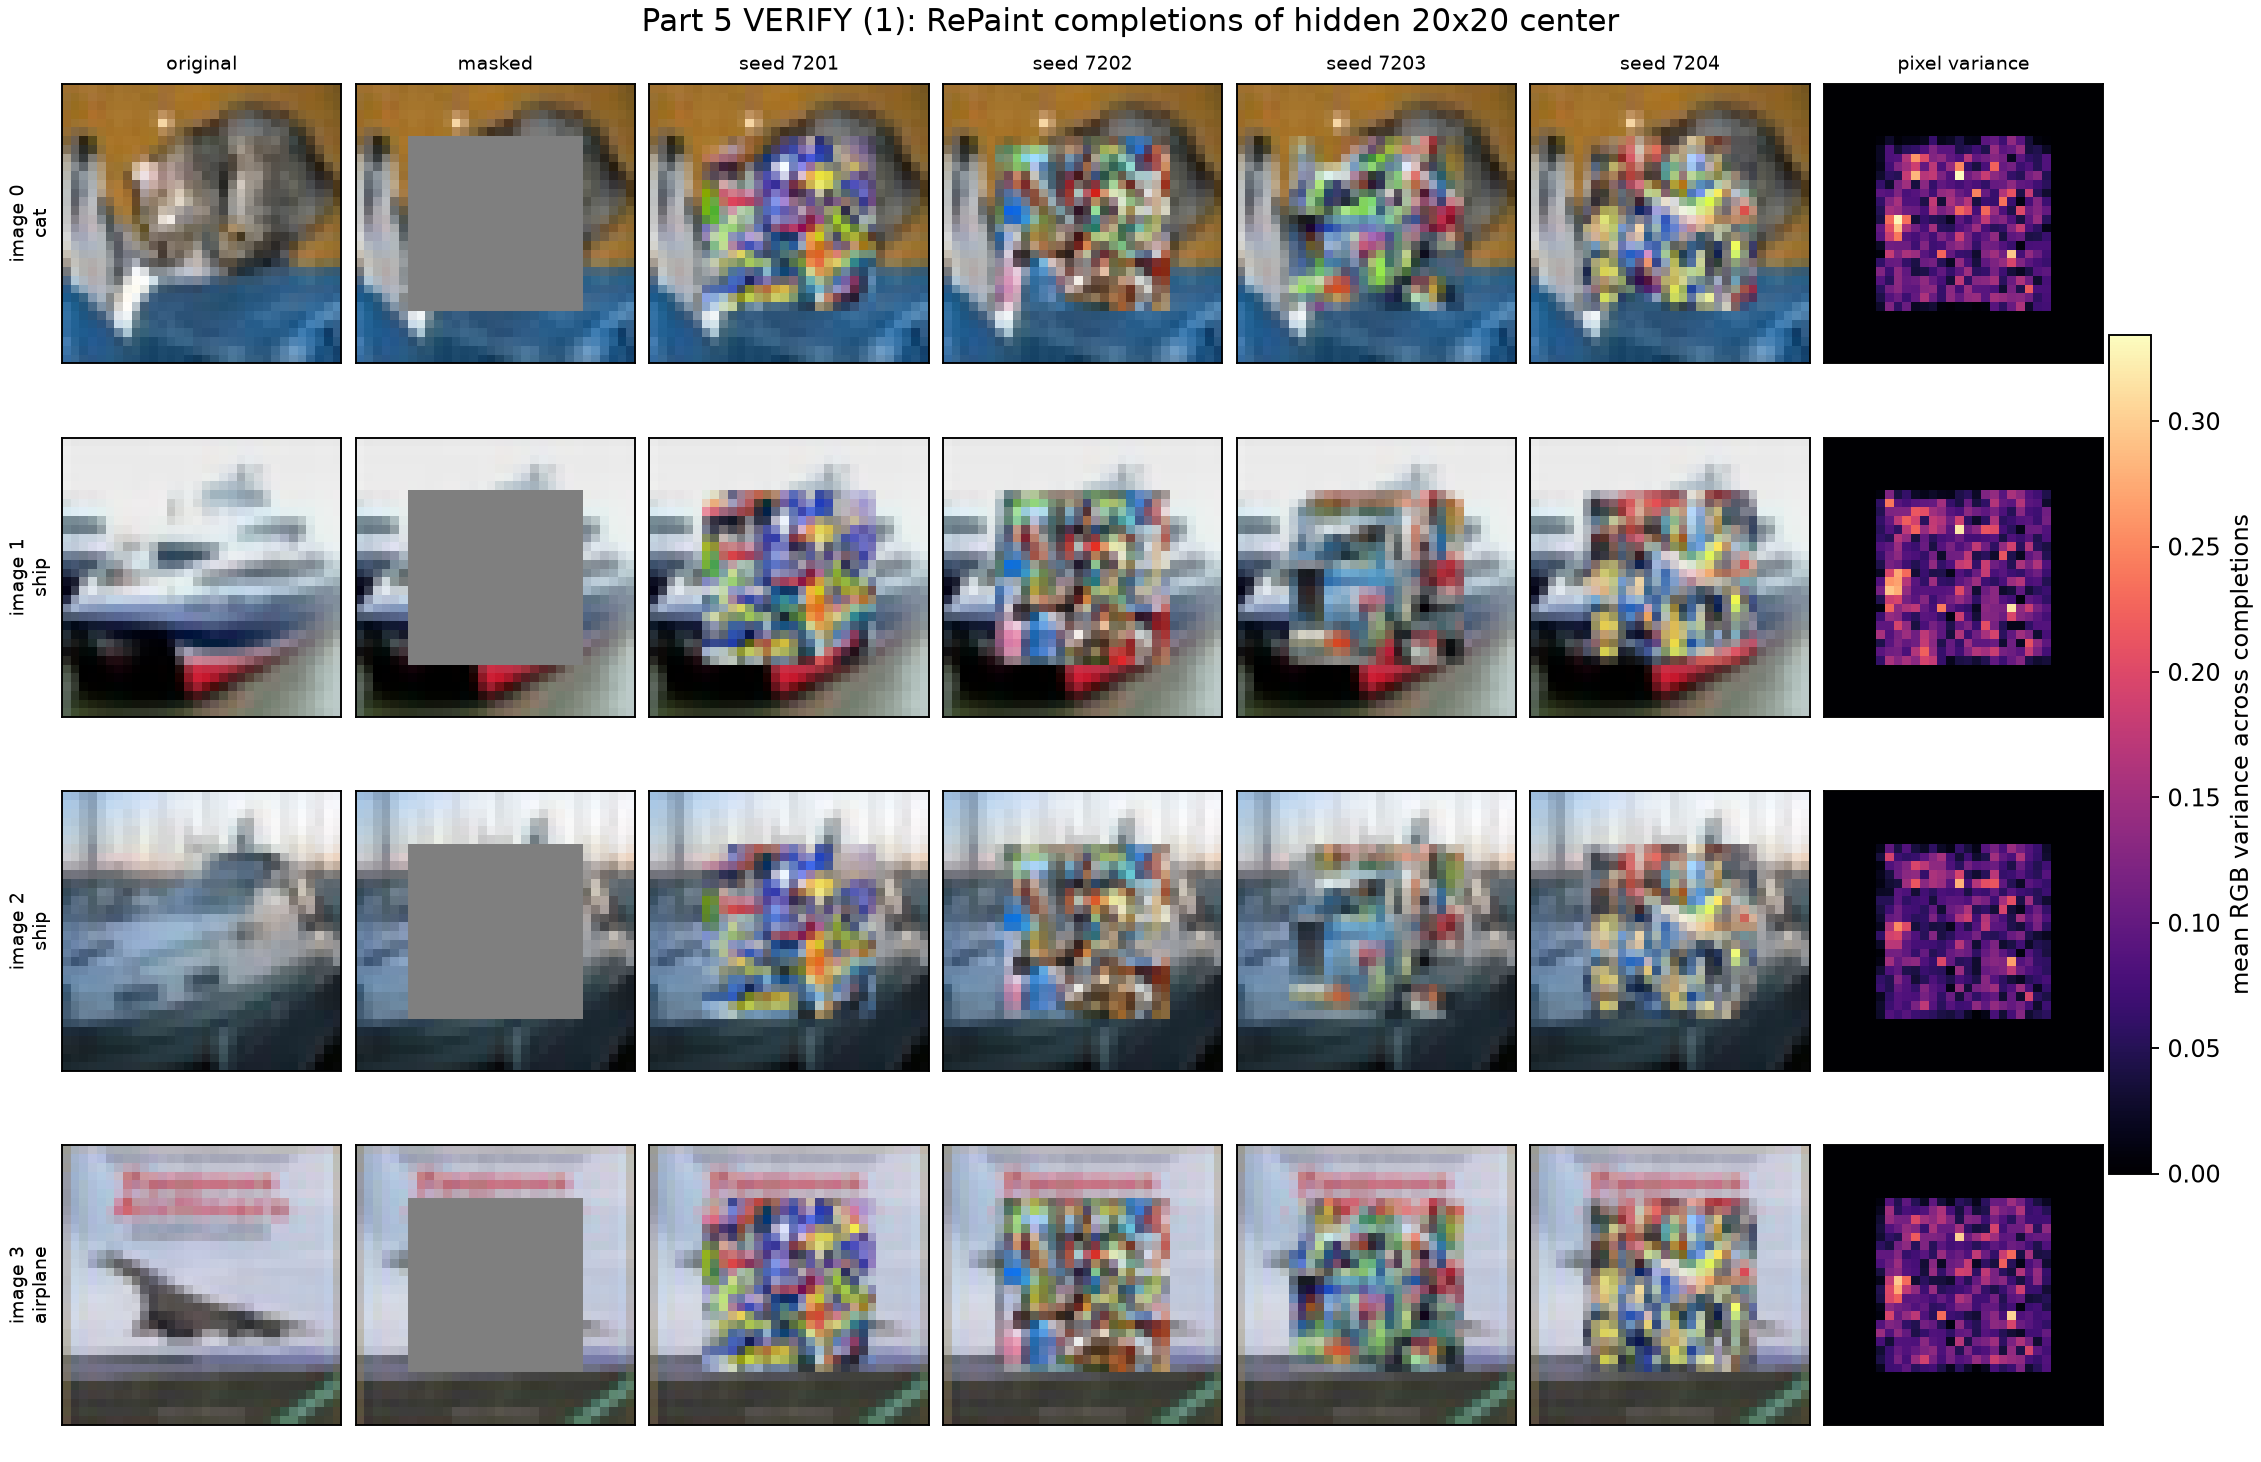
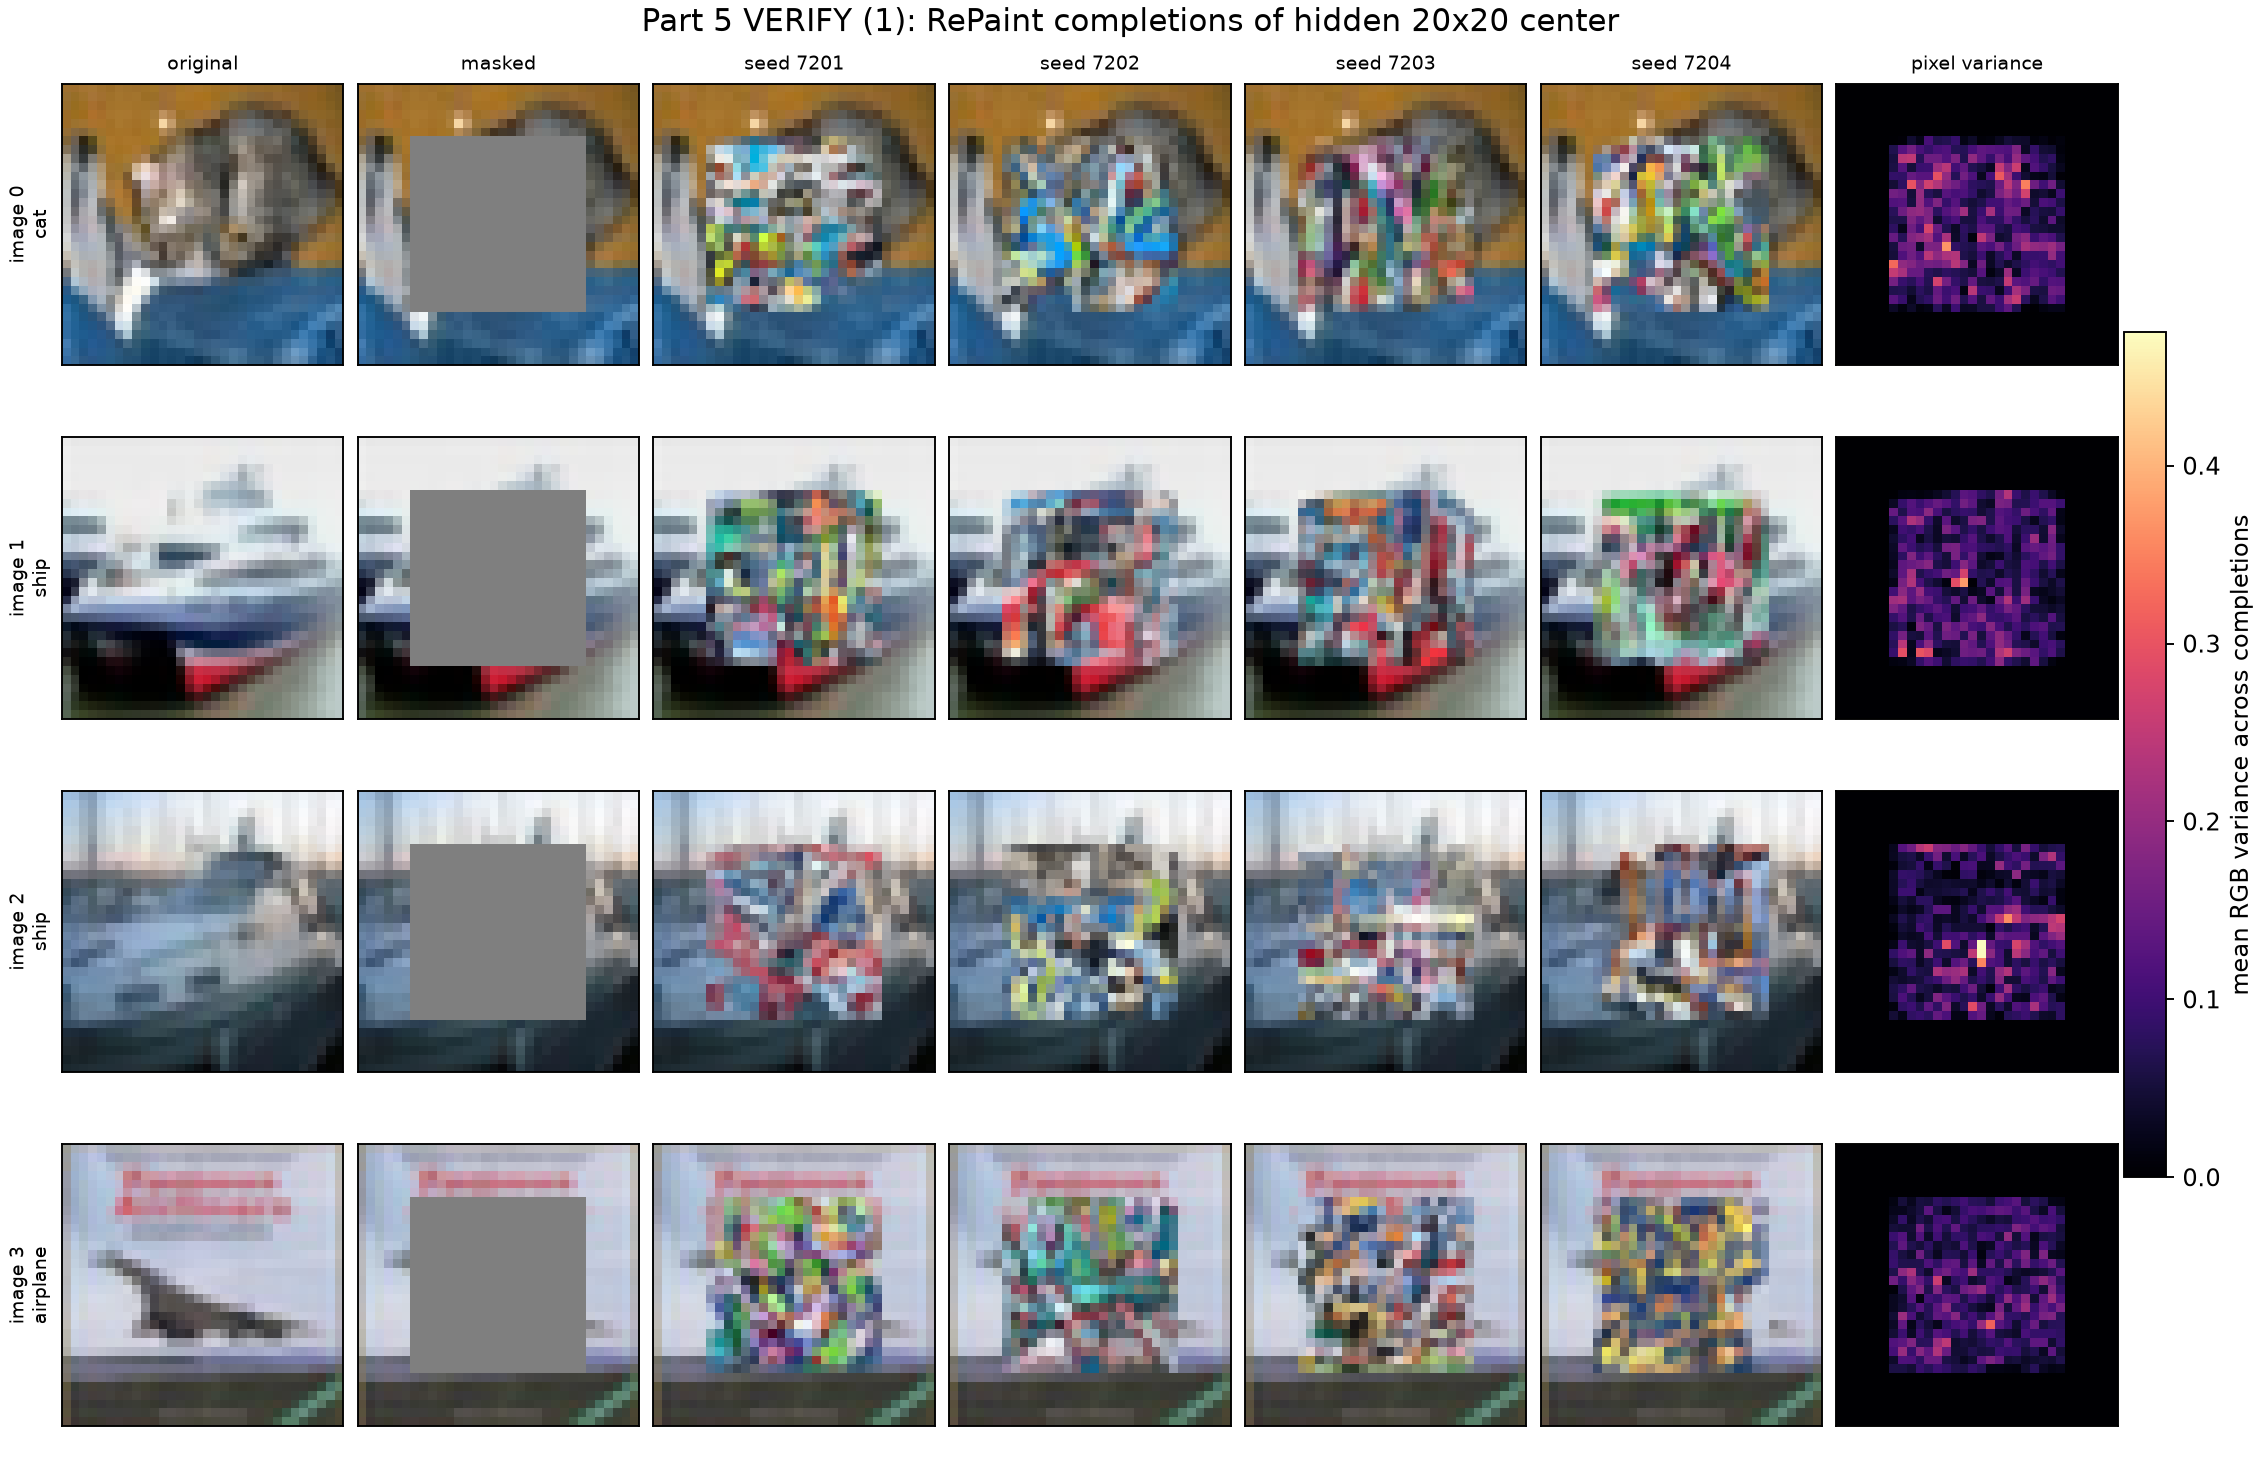
week7: fix RePaint image conditioning and finish Week 7

diff --git a/week7/repaint.py b/week7/repaint.py
@@ -84,6 +84,10 @@ def repaint_batch(
     betas = linear_beta_schedule(1000)
     alpha_bars = alpha_bars_from_betas(betas)
     seed_keys = jnp.stack([jax.random.PRNGKey(int(seed)) for seed in seeds])
+    # The same completion seed is used for every image, but the image index is
+    # mixed into the key so each visible context gets independent noise.
+    image_indices = jnp.arange(batch, dtype=jnp.int32)
+    seed_keys = jax.vmap(jax.random.fold_in)(seed_keys, image_indices)
     split_keys = jax.vmap(
         lambda key: jax.random.split(key)
     )(seed_keys)
@@ -93,6 +97,13 @@ def repaint_batch(
         lambda key: jax.random.normal(key, (32, 32, 3), dtype=DTYPE)
     )(key_initial)
     noise = _noise_factory(key_noise, (32, 32, 3))
+    # Seed the known border with its t=1000 forward observation before the
+    # first network evaluation.
+    initial_known_noise = noise(0)
+    x = mask * (
+        jnp.sqrt(alpha_bars[1000]) * observations
+        + jnp.sqrt(1.0 - alpha_bars[1000]) * initial_known_noise
+    ) + (1.0 - mask) * x
     model = jax.jit(lambda sample, t: unet_apply(params, sample, t, config))
 
     evaluations = 0
@@ -199,6 +210,18 @@ def repaint_metrics(
         ),
         axis=(2, 3, 4, 5),
     )
+    cross_image_differences = []
+    for seed in range(completions.shape[1]):
+        for first in range(completions.shape[0]):
+            for second in range(first + 1, completions.shape[0]):
+                cross_image_differences.append(
+                    np.mean(
+                        np.abs(
+                            completions[first, seed][hidden_bool]
+                            - completions[second, seed][hidden_bool]
+                        )
+                    )
+                )
 
     return {
         "hidden_mse": hidden_mse.tolist(),
@@ -215,6 +238,9 @@ def repaint_metrics(
         "per_image_max_hidden_std": max_hidden_std.tolist(),
         "per_image_min_hidden_std": min_hidden_std.tolist(),
         "max_pairwise_hidden_difference": float(pairwise_difference.max()),
+        "cross_image_hidden_mean_abs_difference": float(
+            np.mean(cross_image_differences)
+        ),
         "variance": variance,
         "completions_in_range": bool(
             completions.min() >= -1.0 - 1e-6

diff --git a/week7/run_repaint_verify1.py b/week7/run_repaint_verify1.py
@@ -91,6 +91,9 @@ def main() -> int:
         metrics["max_hidden_std"] > 1e-4
         and metrics["max_pairwise_hidden_difference"] > 1e-4
     )
+    context_ok = bool(
+        metrics["cross_image_hidden_mean_abs_difference"] > 1e-2
+    )
     clipping_ok = bool(metrics["completions_in_range"])
     overall_pass = bool(
         shape_ok
@@ -98,6 +101,7 @@ def main() -> int:
         and evaluations_ok
         and observed_ok
         and differ_ok
+        and context_ok
         and clipping_ok
     )
 
@@ -160,6 +164,10 @@ def main() -> int:
                 "max_pairwise_hidden_difference"
             ],
             "completions_differ": differ_ok,
+            "cross_image_hidden_mean_abs_difference": metrics[
+                "cross_image_hidden_mean_abs_difference"
+            ],
+            "context_response_above_0_01": context_ok,
             "completions_in_range_minus1_plus1": clipping_ok,
             "overall_pass": overall_pass,
         },
@@ -215,6 +223,11 @@ def main() -> int:
         f"max pairwise hidden difference = "
         f"{metrics['max_pairwise_hidden_difference']:.6f}: "
         f"{'PASS' if differ_ok else 'FAIL'}"
+    )
+    print(
+        "  cross-image hidden mean abs difference = "
+        f"{metrics['cross_image_hidden_mean_abs_difference']:.6f} "
+        f"(> 0.01): {'PASS' if context_ok else 'FAIL'}"
     )
     print(
         f"  completions within [-1,1]: "

diff --git a/week7/tests/test_repaint.py b/week7/tests/test_repaint.py
@@ -45,13 +45,15 @@ def test_repaint_metrics_detects_observed_change_and_hidden_variance():
     mask = repaint.make_repaint_mask()
     hidden = np.broadcast_to((1.0 - mask) > 0.5, (32, 32, 3))
     for seed in range(4):
-        completions[:, seed][:, hidden] = (seed + 1) * 0.1
+        completions[0, seed][hidden] = (seed + 1) * 0.1
+        completions[1, seed][hidden] = -(seed + 1) * 0.1
 
     metrics = repaint.repaint_metrics(completions, originals, mask)
 
     assert metrics["observed_max_change"] == pytest.approx(0.0)
     assert metrics["max_hidden_std"] > 0.0
     assert metrics["max_pairwise_hidden_difference"] > 0.0
+    assert metrics["cross_image_hidden_mean_abs_difference"] > 0.0
     assert metrics["completions_in_range"] is True
     assert len(metrics["hidden_mse"]) == 2
     assert len(metrics["hidden_mse"][0]) == 4

diff --git a/week7/README.md b/week7/README.md
@@ -317,10 +317,10 @@ Each image was completed with seeds `7201, 7202, 7203, 7204`.
 
 | Image | hidden MSE (seeds 7201–7204) |
 |---:|---|
-| 0 (cat) | `0.097827`, `0.091138`, `0.076209`, `0.096732` |
-| 1 (ship) | `0.182069`, `0.188578`, `0.161714`, `0.155830` |
-| 2 (ship) | `0.076189`, `0.072673`, `0.070544`, `0.070994` |
-| 3 (airplane) | `0.123379`, `0.114556`, `0.127970`, `0.113593` |
+| 0 (cat) | `0.105911`, `0.110246`, `0.098663`, `0.105096` |
+| 1 (ship) | `0.192275`, `0.176569`, `0.180236`, `0.200002` |
+| 2 (ship) | `0.069891`, `0.088415`, `0.060007`, `0.078262` |
+| 3 (airplane) | `0.117485`, `0.126996`, `0.107392`, `0.123828` |
 
 | Check | Value | Result |
 |-------|-------|:------:|
@@ -328,8 +328,17 @@ Each image was completed with seeds `7201, 7202, 7203, 7204`.
 | Finite completions | all finite | PASS |
 | Network evaluations | `99` | PASS |
 | Maximum observed-pixel change | `0.000e+00` (`< 1e-5`) | PASS |
-| Completions differ inside mask | max hidden std `0.715093`; max pairwise diff `1.724194` | PASS |
+| Completions differ inside mask | max hidden std `0.744964`; max pairwise diff `1.886414` | PASS |
+| Cross-image context response | mean hidden difference `0.421430` (`> 0.01`) | PASS |
 | Completion range | within `[-1,1]` | PASS |
+
+The same completion seed now receives independent noise for each input image, so
+completions no longer collapse to the same hidden texture; the cross-image
+mean absolute hidden difference is `0.421430`. The four contexts are visibly
+different (cat, two ships, airplane), and the completion colors follow the
+visible border. With the mandated 99 network evaluations, the hidden interiors
+remain texture-noisy and are not photorealistic; this is reported as a
+limitation rather than claimed as clean visual inpainting.
 
 **Part 5 VERIFY (1): PASS.**
 
